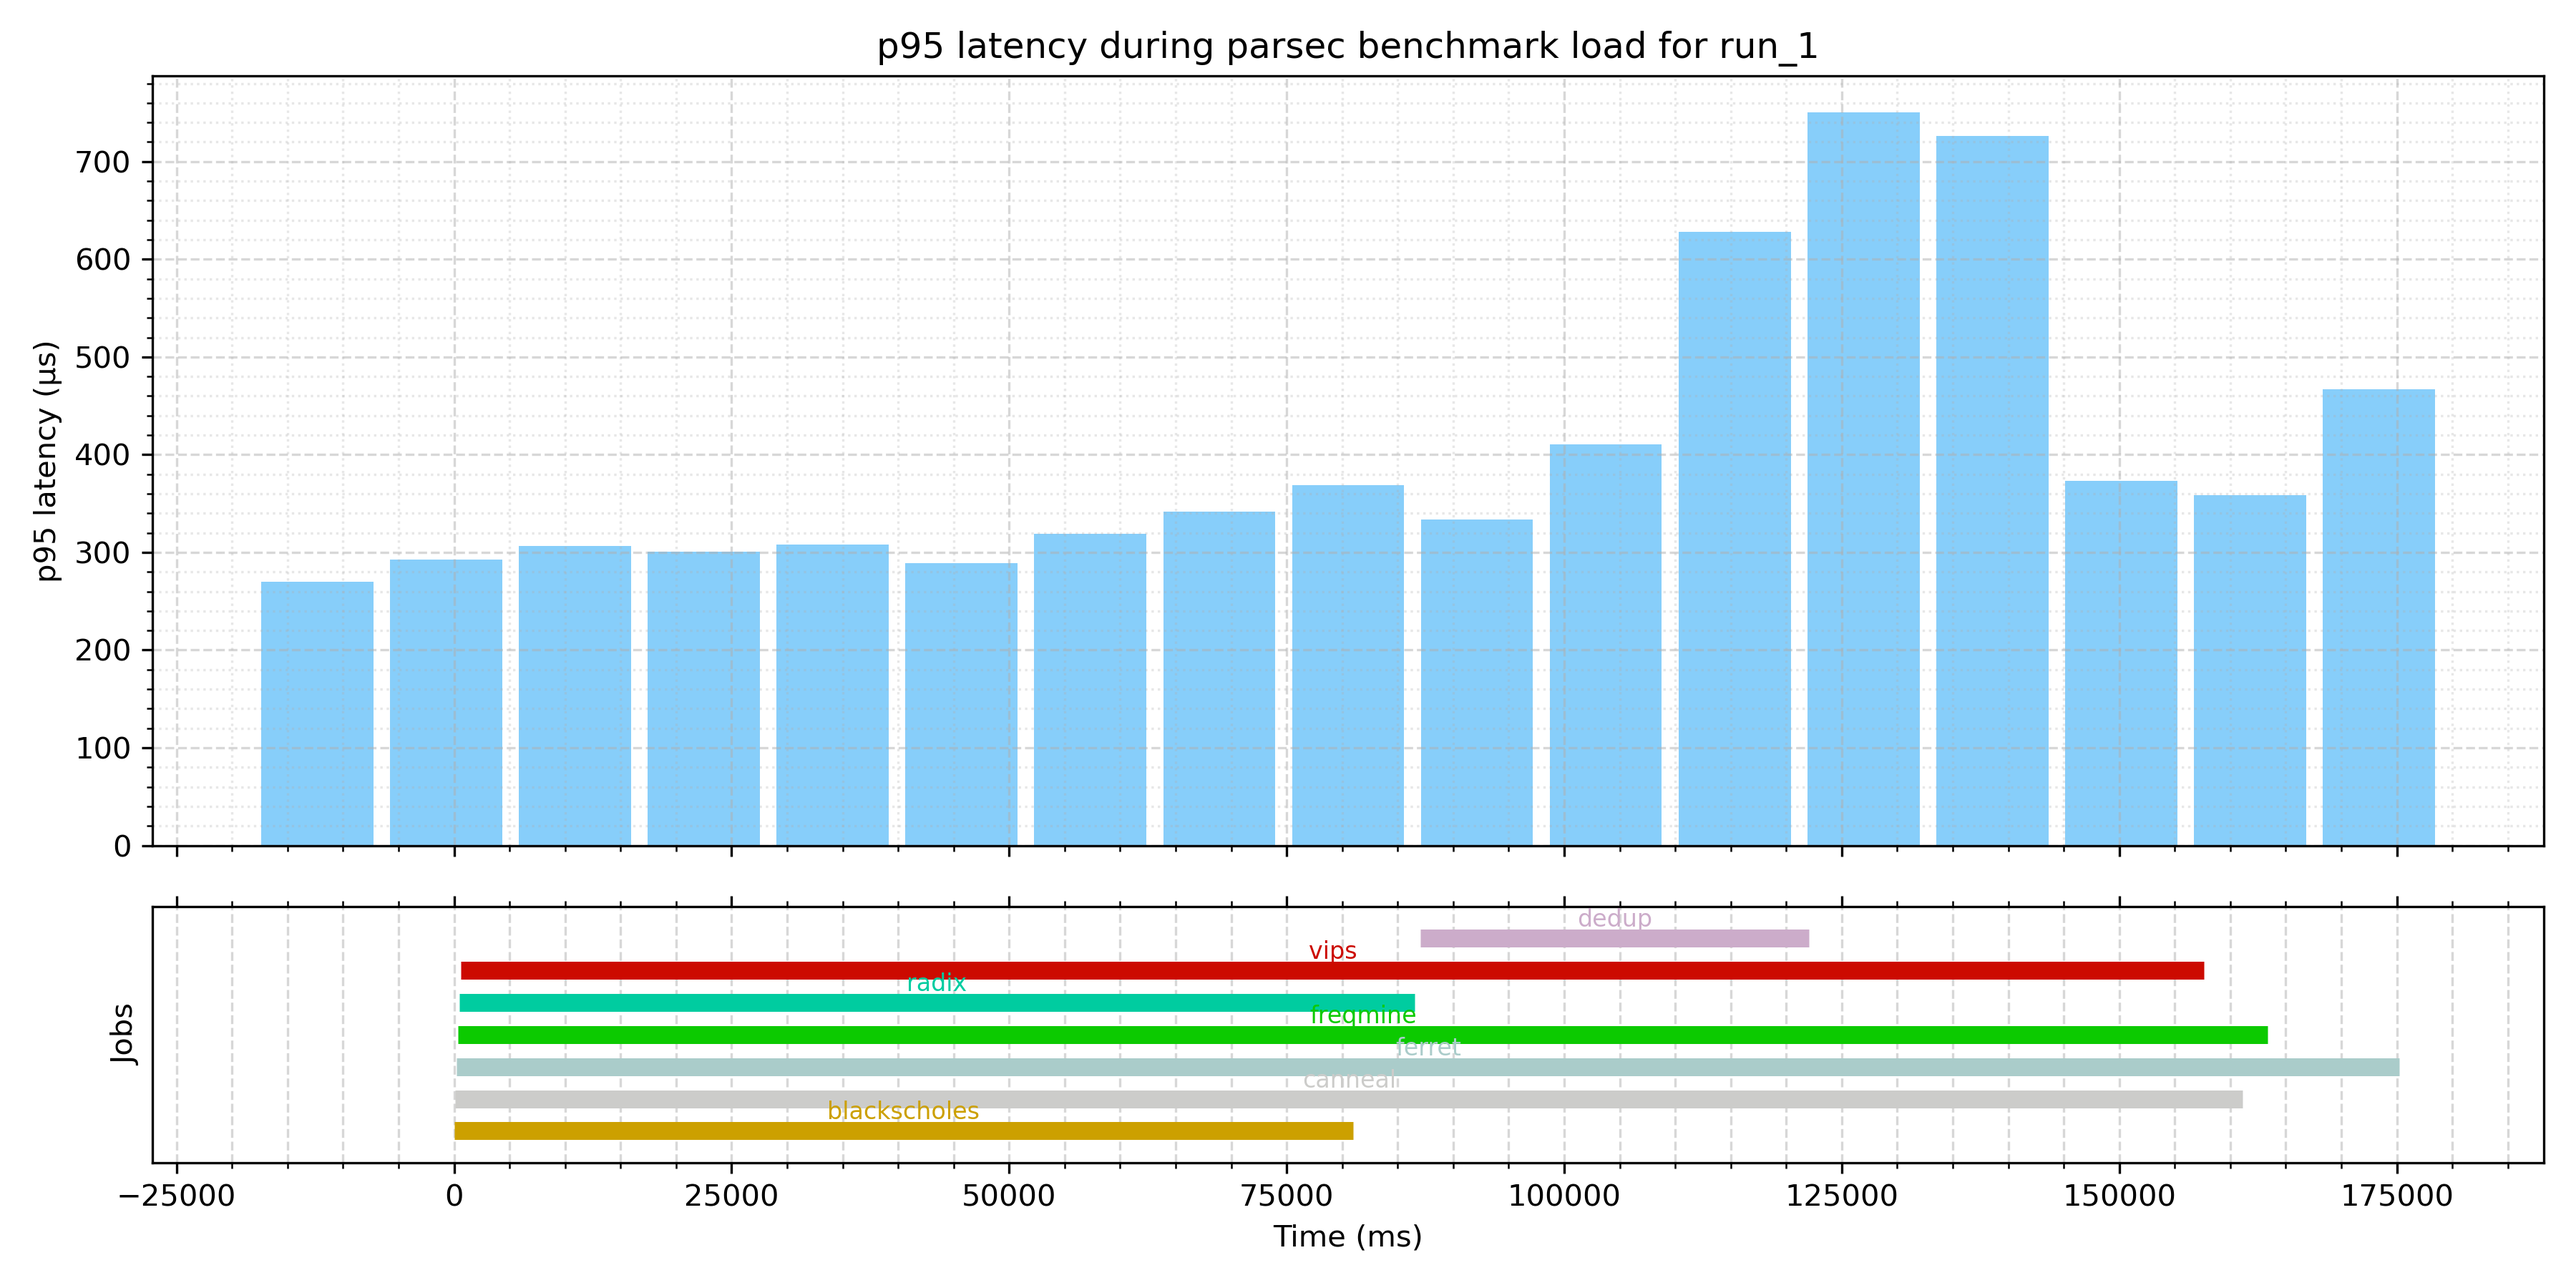
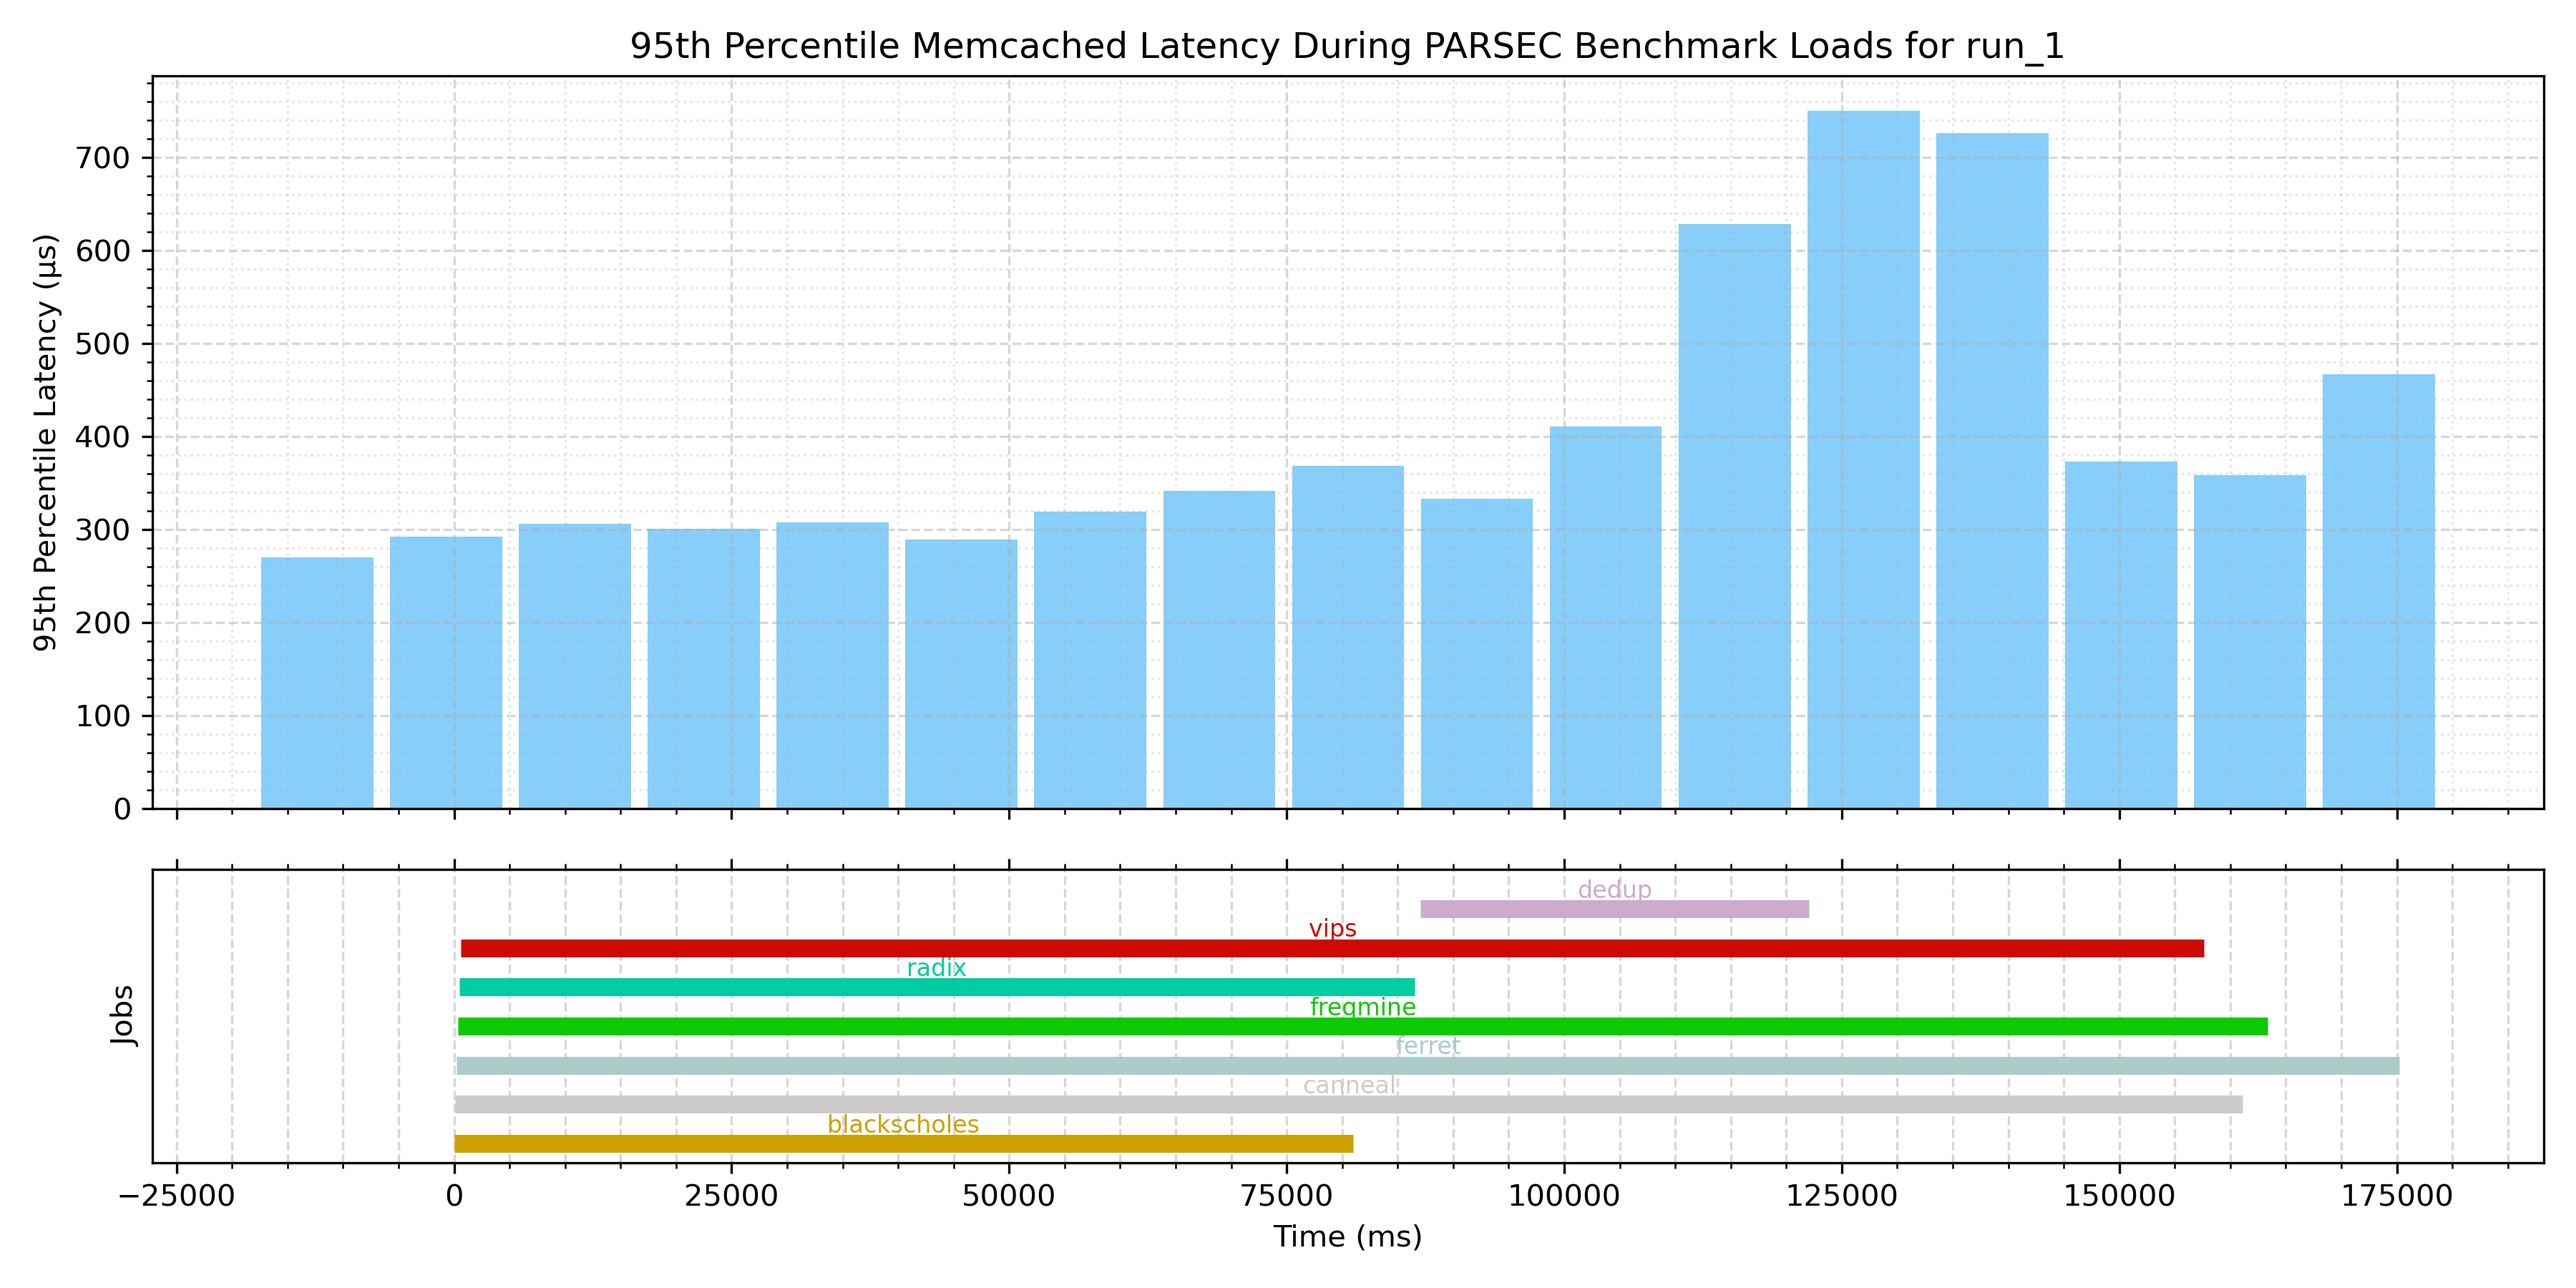
change labels

diff --git a/part3/graph/plot.py b/part3/graph/plot.py
@@ -93,7 +93,7 @@ def export_graph(folder, run_number):
         ncols=1,
         figsize=(12, 6),
         sharex=True,
-        gridspec_kw={'height_ratios': [3, 1]}  # Top plot taller than bottom
+        gridspec_kw={'height_ratios': [5, 2]}  # Top plot taller than bottom
     )
 
     # --- Bar plot for p95 latency ---
@@ -104,22 +104,23 @@ def export_graph(folder, run_number):
         align='edge',
         color='lightskyblue'
     )
-    ax1.set_ylabel('p95 latency (µs)')
-    ax1.set_title('p95 latency during parsec benchmark load for ' + run_number)
+    ax1.set_ylabel('95th Percentile Latency (µs)')
+    ax1.set_title('95th Percentile Memcached Latency During PARSEC Benchmark Loads for ' + run_number)
     ax1.grid(True, which='both', linestyle='--', alpha=0.5)
     ax1.grid(which='minor', linestyle=':', alpha=0.3)
     ax1.minorticks_on()
 
+    spacing = 2
     # --- Job duration horizontal bars ---
     for i, row in job_interval_df.iterrows():
         color = colors.get(row['job'], '#000000')
         ax2.hlines(
-            y=i, xmin=row['start_time'], xmax=row['end_time'],
+            y=i * spacing, xmin=row['start_time'], xmax=row['end_time'],
             color=color, linewidth=6
         )
         ax2.text(
             x=(row['start_time'] + row['end_time']) / 2,
-            y=i + 0.2,
+            y= i * spacing + 0.3,
             s=row['job'],
             ha='center',
             va='bottom',
@@ -131,7 +132,7 @@ def export_graph(folder, run_number):
     ax2.set_yticklabels([])
     ax2.set_xlabel('Time (ms)')
     ax2.set_ylabel('Jobs')
-    ax2.set_ylim(-1, len(job_interval_df))
+    ax2.set_ylim(-1, spacing * len(job_interval_df))
     ax2.grid(True, axis='x', which='both', linestyle='--', alpha=0.5)
     ax2.minorticks_on()
     ax2.tick_params(axis='x', which='both', direction='out', top=True)
